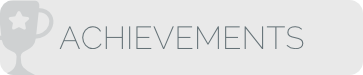
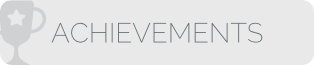
new method to get images, scaled down version of leaderboard image

diff --git a/src/Stats.js b/src/Stats.js
@@ -71,41 +71,36 @@ exports = Class(ScrollView, function(supr) {
       order: 1
     });
 
-    var containerPlay = new View({
-      superview: this,
-      layout: 'linear',
-      justifyContent: 'space',
-      height: 80,
-      centerX: true,
-      top: 50,
-      order: 2
-    });
+    var img_achievement = Utils.getImage('achievements', true),
+      img_leaderboard = Utils.getImage('leaderboard', true),
+      containerPlay = new View({
+        superview: this,
+        layout: 'linear',
+        justifyContent: 'space-outside',
+        height: img_achievement.up.getHeight(),
+        centerX: true,
+        top: 50,
+        order: 2
+      });
 
     new ButtonView({
       superview: containerPlay,
       centerX: true,
-      width: 362,
-      height: 75,
-      scale: 0.9,
-      images: {
-        up: 'resources/images/btn_achievements.png',
-        down: 'resources/images/btn_achievements_down.png'
-      },
+      width: img_achievement.up.getWidth(),
+      height: img_achievement.up.getHeight(),
+      images: img_achievement,
       on: {
         up: PlayGame.showAchievements
       }
     });
 
+
     new ButtonView({
       superview: containerPlay,
       centerX: true,
-      width: 362,
-      height: 75,
-      scale: 0.9,
-      images: {
-        up: 'resources/images/btn_leaderboard.png',
-        down: 'resources/images/btn_leaderboard_down.png'
-      },
+      width: img_leaderboard.up.getWidth(),
+      height: img_leaderboard.up.getHeight(),
+      images: img_leaderboard,
       on: {
         up: PlayGame.showLeaderBoard
       }

diff --git a/src/Utils.js b/src/Utils.js
@@ -1,3 +1,6 @@
+/* jshint ignore:start */
+import ui.resource.Image as Image;
+/* jshint ignore:end */
 
 exports = (function() {
   var obj = {};
@@ -56,5 +59,16 @@ exports = (function() {
     out += Math.floor(seconds) + 's' ;
     return out;
   };
+
+  obj.getImage = function(name, button) {
+    if(button) {
+      return {
+        up: new Image({url: 'resources/images/btn_' + name + '.png'}),
+        down: new Image({url: 'resources/images/btn_' + name + '_down.png'}),
+      };
+    }
+    return new Image({url: 'resources/images/' + name + '.png'});
+  };
+
   return obj;
 })();
